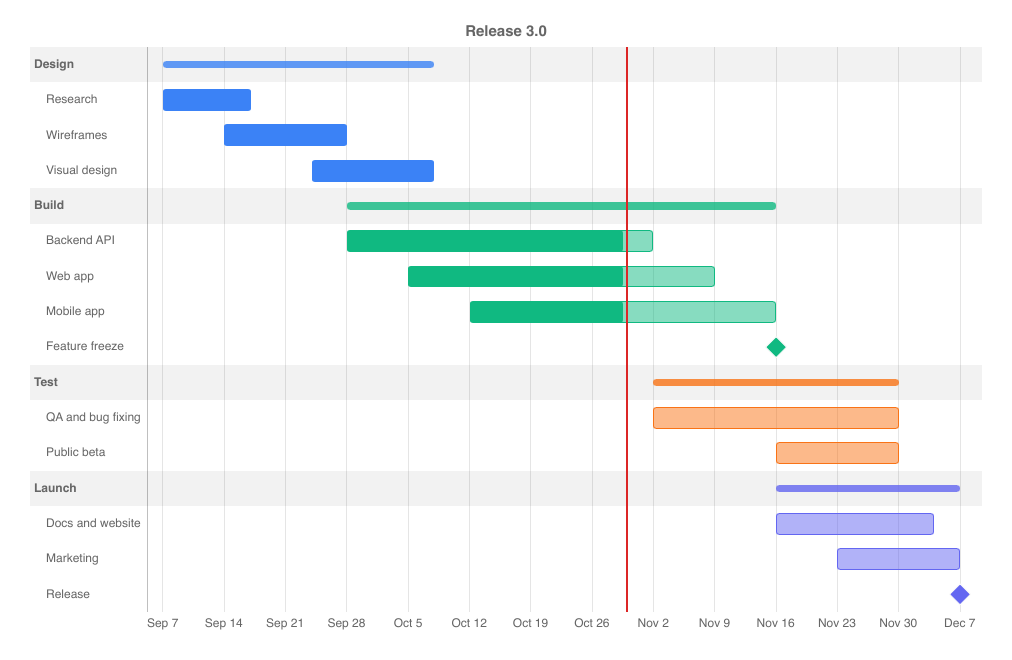
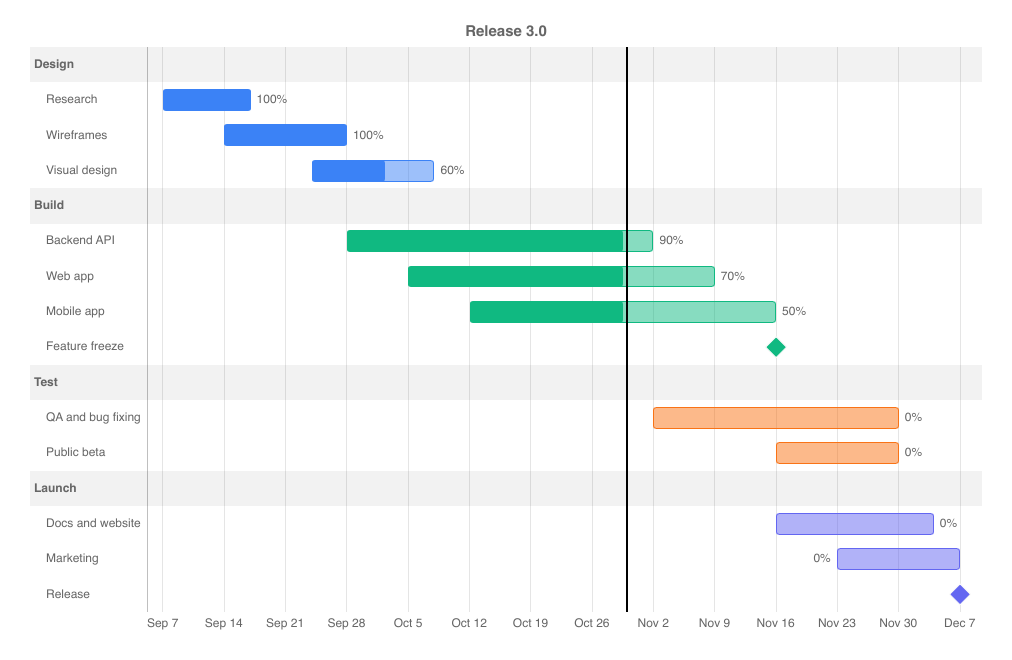
GanttChart: show-values writes each task's progress after its bar; the today line is black, white in dark mode; the examples have a design task behind schedule

diff --git a/docs/index.html b/docs/index.html
@@ -967,7 +967,7 @@ GanttChart {
     tasks: [
         { label: "Research", group: "Design", start: 0, end: 10 * day, progress: 1 },
         { label: "Wireframes", group: "Design", start: 7 * day, end: 21 * day, progress: 1 },
-        { label: "Visual design", group: "Design", start: 17 * day, end: 31 * day, progress: 1 },
+        { label: "Visual design", group: "Design", start: 17 * day, end: 31 * day, progress: 0.6 },
         { label: "Backend API", group: "Build", start: 21 * day, end: 56 * day, progress: 0.9 },
         { label: "Web app", group: "Build", start: 28 * day, end: 63 * day, progress: 0.7 },
         { label: "Mobile app", group: "Build", start: 35 * day, end: 70 * day, progress: 0.5 },
@@ -980,6 +980,7 @@ GanttChart {
     ];
     show-now: true;
     now: 53 * day;
+    show-values: true;
     zoom-enabled: true;
 }</code></pre>
 <table>
@@ -990,7 +991,8 @@ GanttChart {
   <tr><td><code>title</code></td><td><code>string</code></td><td><code>""</code></td><td>Shown above the chart</td></tr>
   <tr><td><code>show-now</code></td><td><code>bool</code></td><td><code>false</code></td><td>A vertical line at <code>now</code>, when it is in view</td></tr>
   <tr><td><code>now</code></td><td><code>float</code></td><td><code>0</code></td><td>The time of the line, in seconds after <code>time-origin</code></td></tr>
-  <tr><td><code>now-color</code></td><td><code>color</code></td><td>red</td><td>The color of the line</td></tr>
+  <tr><td><code>now-color</code></td><td><code>color</code></td><td>black, white in dark mode</td><td>The color of the line</td></tr>
+  <tr><td><code>show-values</code></td><td><code>bool</code></td><td><code>false</code></td><td>Write each task's progress after its bar</td></tr>
   <tr><td><code>show-tooltip</code></td><td><code>bool</code></td><td><code>true</code></td><td>A tooltip with the task's dates, duration and progress</td></tr>
   <tr><td><code>animated</code></td><td><code>bool</code></td><td><code>true</code></td><td>Grow the bars in when the chart appears</td></tr>
   <tr><td><code>fill-opacity</code></td><td><code>float</code></td><td>theme's</td><td>The opacity of the part of a bar not yet done; the part done is solid</td></tr>

diff --git a/examples/gallery/src/main.rs b/examples/gallery/src/main.rs
@@ -685,7 +685,7 @@ const SAMPLES: &[Sample] = &[
         "gantt",
         "Business charts",
         "Gantt",
-        "GanttChart: a release plan in four groups, with progress, milestones and a line at today. Scroll to zoom, drag to pan.",
+        "GanttChart: a release plan in four groups, with progress written after each bar, milestones and a line at today. Scroll to zoom, drag to pan.",
         Shape::Gantt,
         &["Reset zoom"],
     ),
